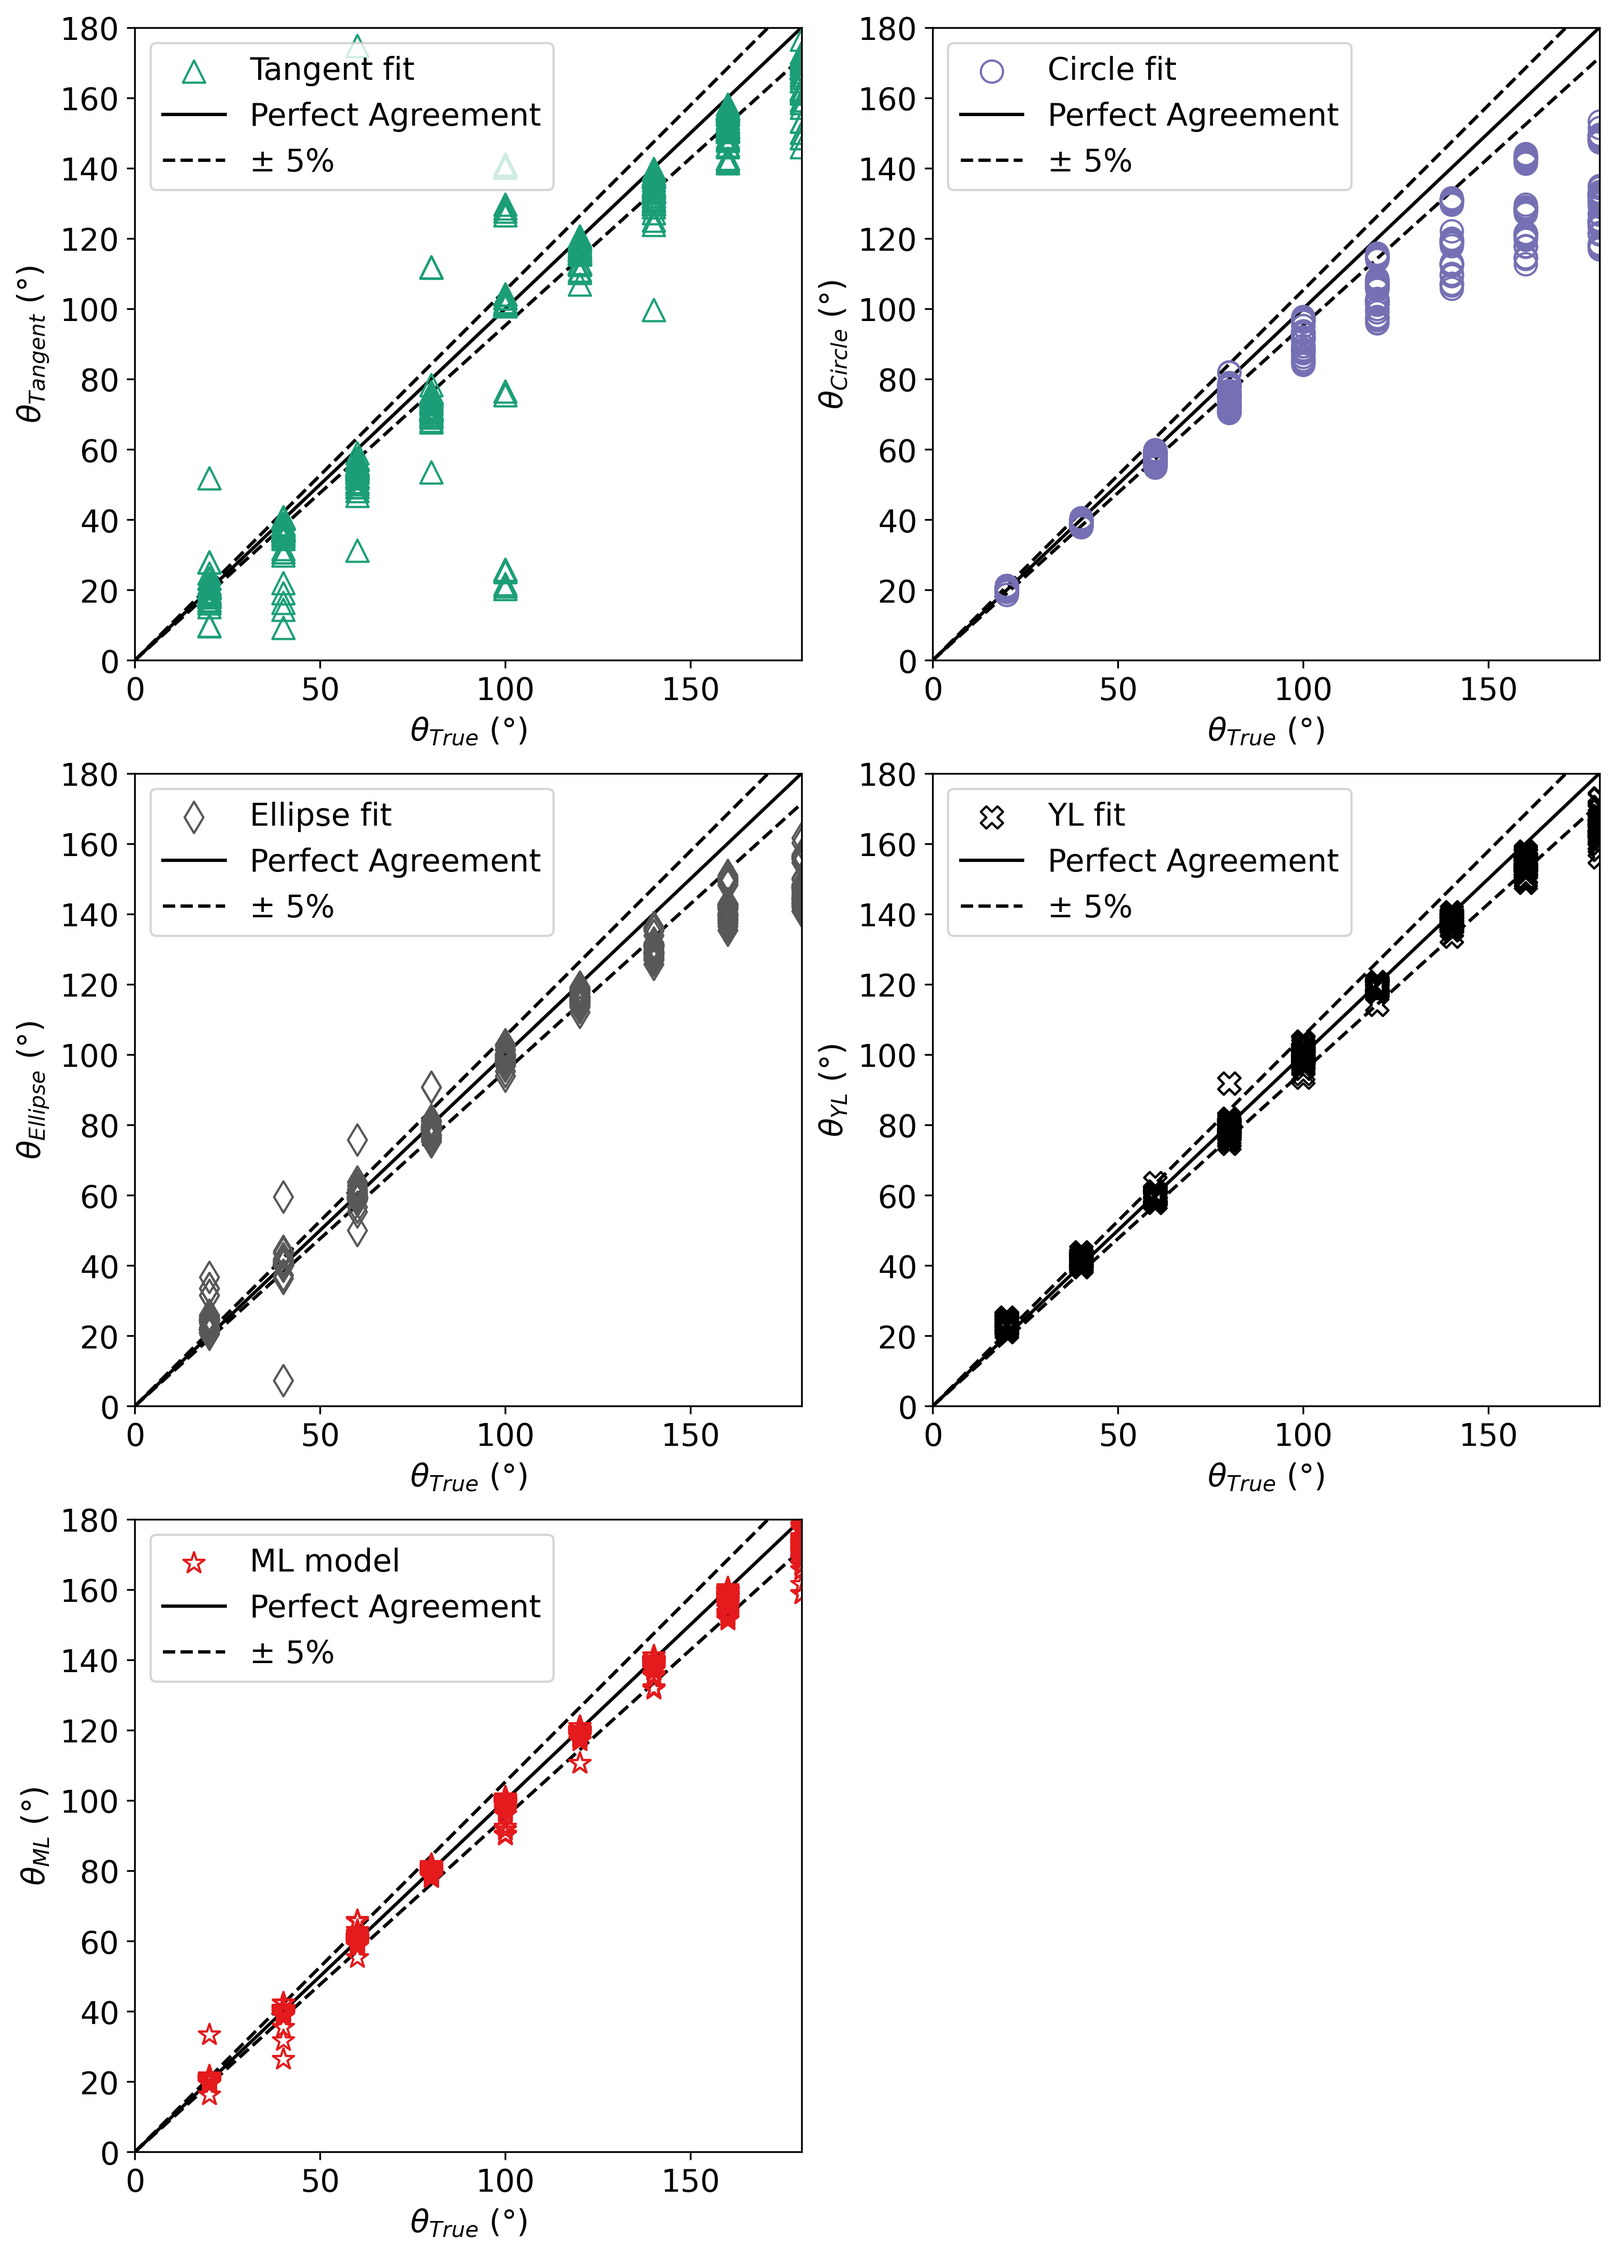
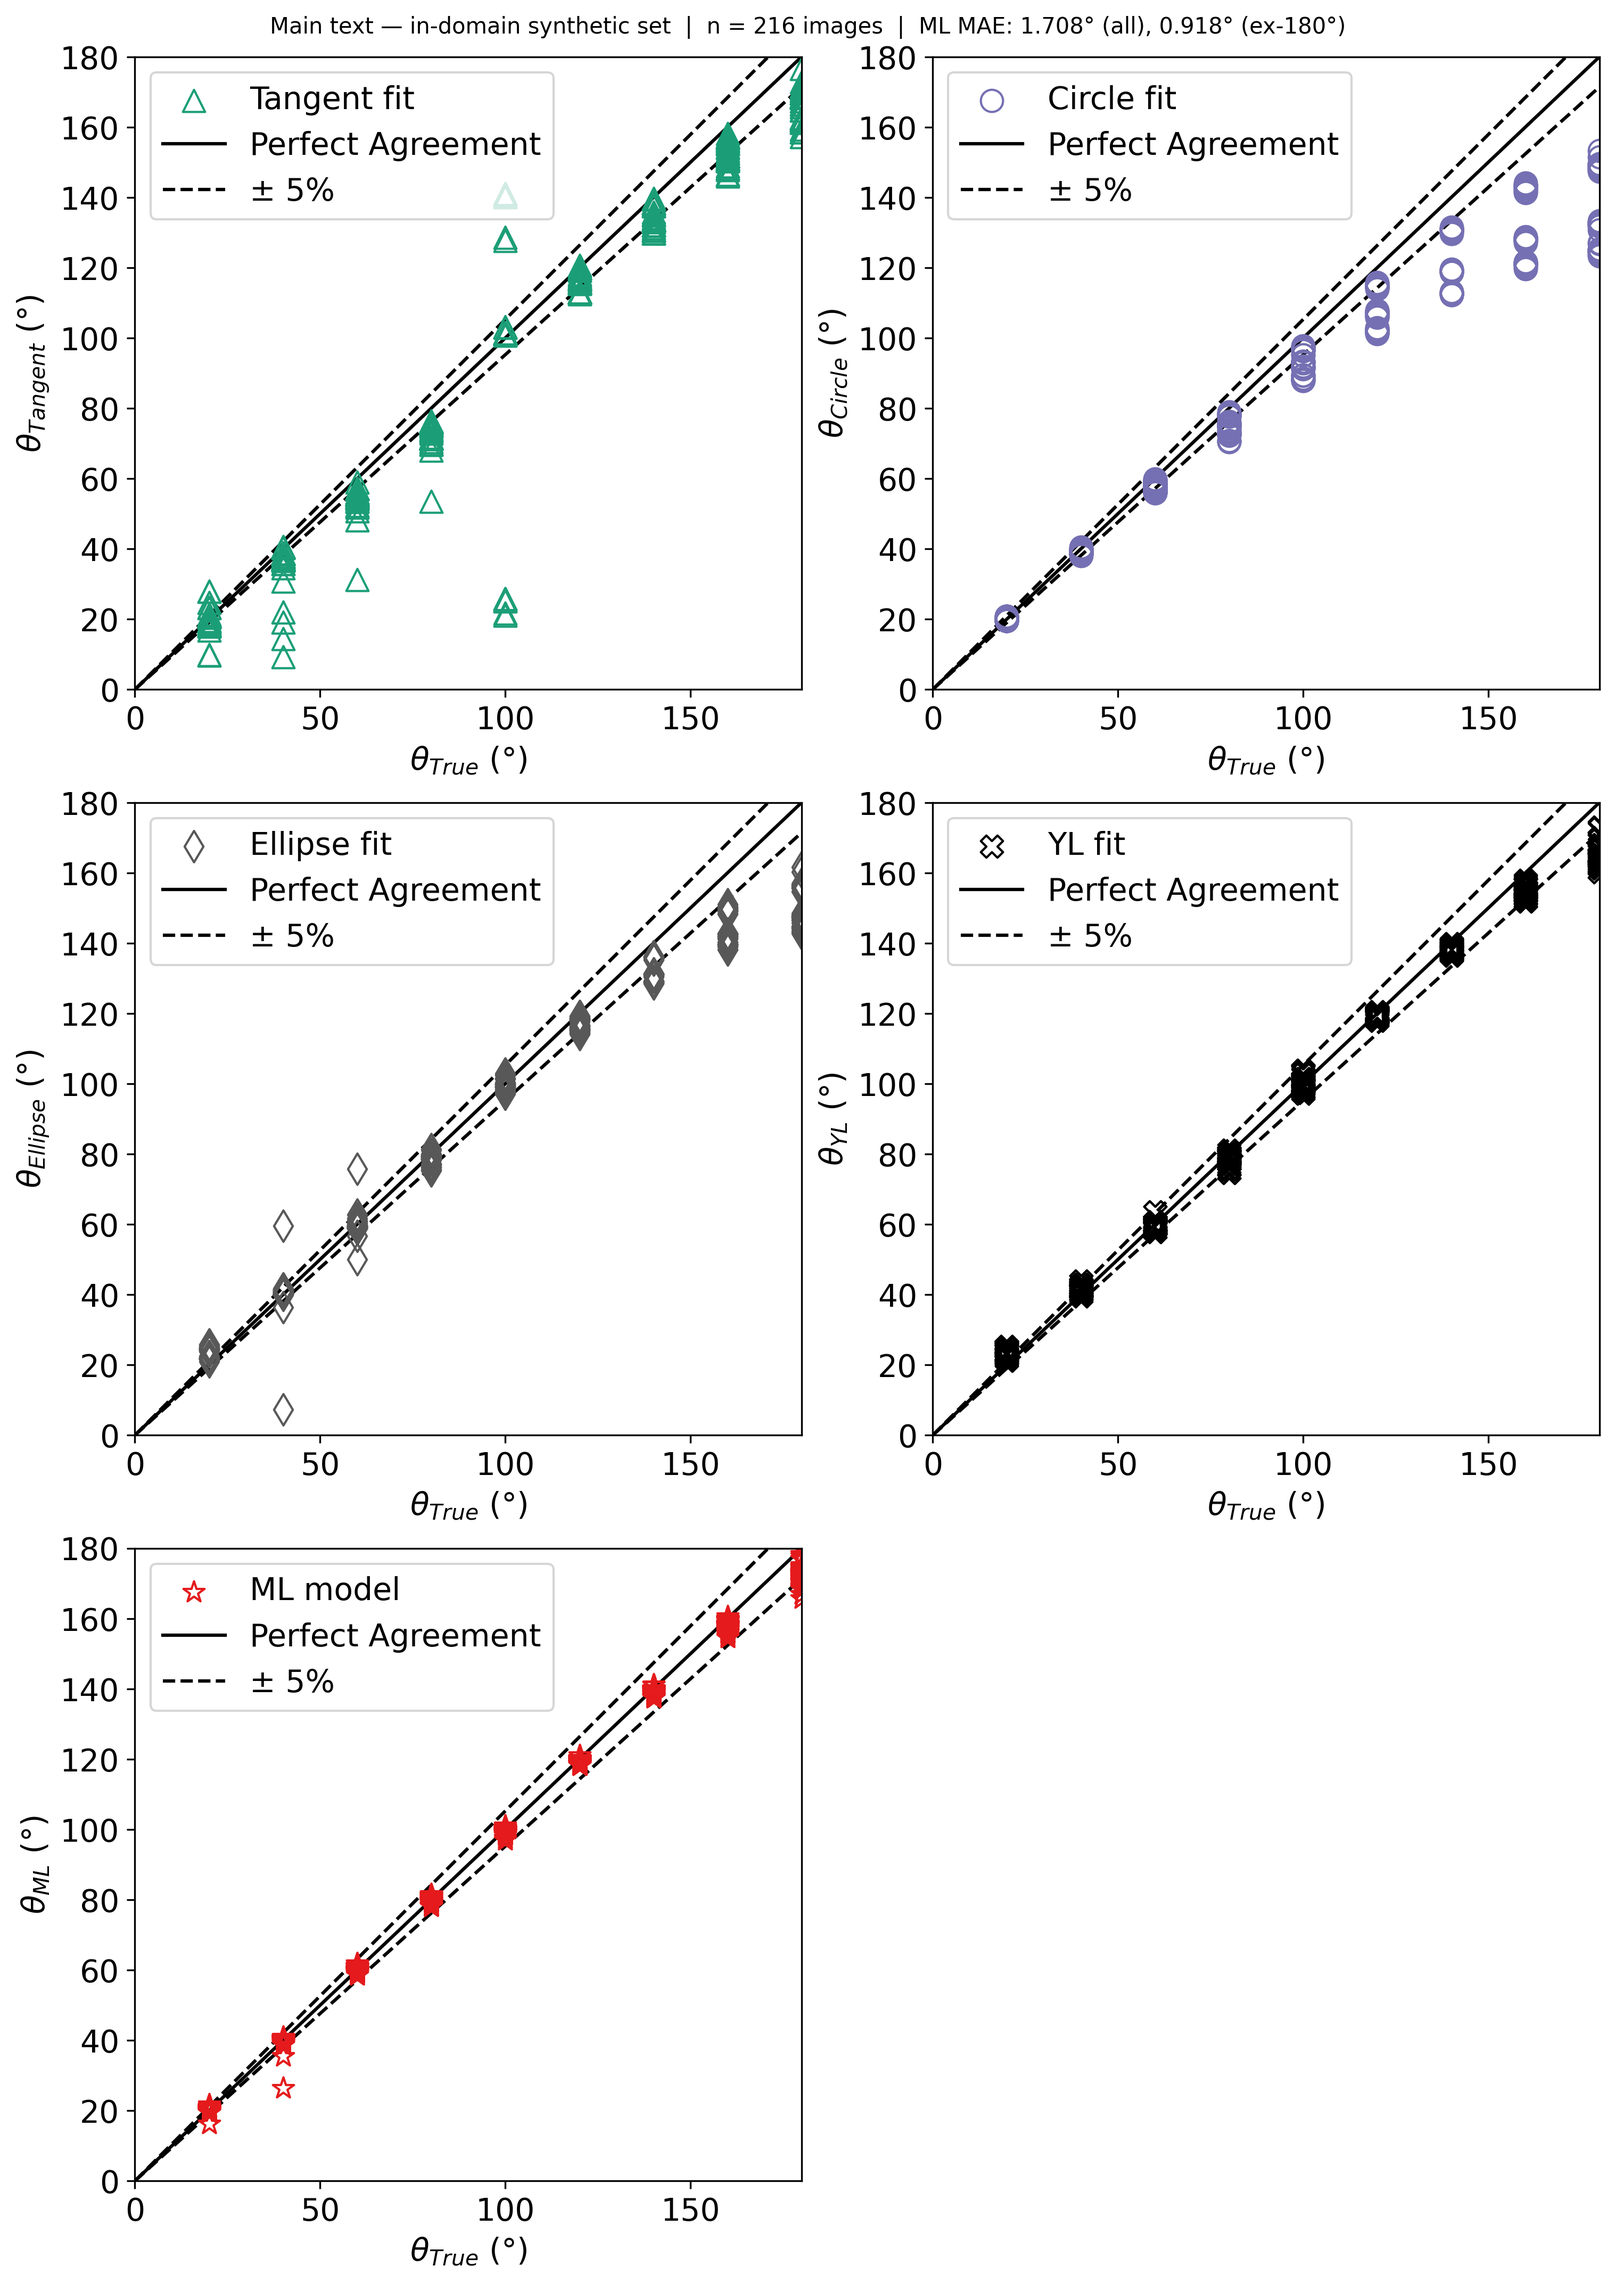
feat(paper_results): report the synthetic set as separate in-domain and out-of-domain figures
The paper's main-text synthetic evaluation is the 216 in-domain images,
with the 108 out-of-domain images (beyond the training grid) reported as
their own supplementary figure rather than marked within the main-text
panel.

plot_synthetic.py now joins synthetic_results.csv against
synthetic_matrix.csv's in_domain label and generates both variants:
synthetic_agreement_5panel[.png|_si_outdomain.png] and
synthetic_bias_and_disagreement[.png|_si_outdomain.png], each suptitled
with its dataset label, n, and ML MAE (all-angle and ex-180 deg) so the
two can't be confused out of context. Also writes
results/synthetic_domain_split_mae.csv (per-method MAE for both subsets).

Verified: 216 in-domain images, ML MAE 0.918 deg ex-180 deg; 108
out-of-domain, 1.746 deg ex-180 deg. No changes to evaluate_synthetic.py
or the underlying evaluation; this is purely how the same 324-image
results are split for reporting.

diff --git a/paper_results/plot/plot_synthetic.py b/paper_results/plot/plot_synthetic.py
@@ -1,9 +1,21 @@
 #!/usr/bin/env python
 """Generate synthetic dataset figures.
 
+The synthetic set is placed off the training grid (PART2 §7.3.2), so each
+image carries an `in_domain` label (results/synthetic_matrix.csv):
+in-domain cells fall between training-grid points, out-of-domain cells lie
+beyond it. Per PART2 §7.3.3/D1′, these are reported as two separate,
+independently labelled figures rather than one panel with marked points --
+the in-domain set (216 images) is the main-text synthetic evaluation, and
+the out-of-domain set (108 images) is a supplementary robustness figure
+documenting how error behaves beyond the training grid.
+
 Produces:
-  - figures/synthetic/synthetic_agreement_5panel.png (3x2 multi-panel F2)
-  - figures/synthetic/synthetic_bias_and_disagreement.png (S5)
+  - figures/synthetic/synthetic_agreement_5panel.png (main text, in-domain)
+  - figures/synthetic/synthetic_bias_and_disagreement.png (main text, in-domain)
+  - figures/synthetic/synthetic_agreement_5panel_si_outdomain.png (SI)
+  - figures/synthetic/synthetic_bias_and_disagreement_si_outdomain.png (SI)
+  - results/synthetic_domain_split_mae.csv (per-method MAE, both variants)
 
 Run from OpenDrop_OP/:
     python paper_results/plot/plot_synthetic.py
@@ -36,14 +48,58 @@ from plot_utils import (
 
 SUBDIR = "synthetic"
 
+METHODS_FOR_MAE = ["ml", "yl", "tangent", "circular", "ellipse", "polynomial"]
+
+DOMAIN_VARIANTS = [
+    # (in_domain value, filename suffix, suptitle label)
+    (True, "", "Main text — in-domain synthetic set"),
+    (False, "_si_outdomain", "Supplementary — out-of-domain (beyond training grid) set"),
+]
+
 
 def load_data():
-    """Load synthetic results CSV."""
+    """Load synthetic results and join the per-image in_domain label."""
     df = pd.read_csv(os.path.join(RESULTS_DIR, "synthetic_results.csv"))
+    matrix = pd.read_csv(os.path.join(RESULTS_DIR, "synthetic_matrix.csv"))
+    in_domain_lookup = matrix.set_index("filename")["in_domain"]
+    df["in_domain"] = df["image_name"].map(in_domain_lookup)
+    if df["in_domain"].isna().any():
+        unmatched = df.loc[df["in_domain"].isna(), "image_name"].tolist()
+        raise ValueError(
+            "image_name(s) not found in synthetic_matrix.csv: {}".format(unmatched)
+        )
     return df
 
 
-def plot_agreement_5panel(df):
+def mae_table(df):
+    """Per-method MAE (all-angle and excluding 180°), pooled over both sides."""
+    gt = df["gt_angle"].values
+    gt_doubled = np.concatenate([gt, gt])
+    rows = []
+    for method in METHODS_FOR_MAE:
+        left = df["{}_left_angle".format(method)].values
+        right = df["{}_right_angle".format(method)].values
+        err_all = np.concatenate([np.abs(left - gt), np.abs(right - gt)])
+        err_ex180 = err_all[gt_doubled != 180]
+        rows.append(
+            {
+                "method": method,
+                "mae_all_angle": np.nanmean(err_all),
+                "mae_excluding_180": np.nanmean(err_ex180),
+                "n_sides": len(err_all),
+            }
+        )
+    return pd.DataFrame(rows)
+
+
+def domain_suptitle(label, df, mt):
+    ml_row = mt.loc[mt.method == "ml"].iloc[0]
+    return "{}  |  n = {} images  |  ML MAE: {:.3f}° (all), {:.3f}° (ex-180°)".format(
+        label, len(df), ml_row["mae_all_angle"], ml_row["mae_excluding_180"]
+    )
+
+
+def plot_agreement_5panel(df, suptitle, filename_suffix):
     """3x2 multi-panel agreement scatter (5 methods, 6th panel removed).
 
     Matches legacy plot_synthetic_results.py In[13] layout:
@@ -83,10 +139,11 @@ def plot_agreement_5panel(df):
     for idx in range(len(FIGURE_METHODS), len(axes)):
         fig.delaxes(axes[idx])
 
-    save_figure(fig, SUBDIR, "synthetic_agreement_5panel.png")
+    fig.suptitle(suptitle, fontsize=10, y=1.01)
+    save_figure(fig, SUBDIR, "synthetic_agreement_5panel{}.png".format(filename_suffix))
 
 
-def plot_bias_and_disagreement(df):
+def plot_bias_and_disagreement(df, suptitle, filename_suffix):
     """Two-panel figure: bias vs true angle (YL + ML) and ML-YL disagreement.
 
     Reproduces legacy pred_vs_true_plots_experimental.py lines 1031-1053
@@ -208,7 +265,8 @@ def plot_bias_and_disagreement(df):
             fontweight="bold",
         )
 
-    save_figure(fig, SUBDIR, "synthetic_bias_and_disagreement.png")
+    fig.suptitle(suptitle, fontsize=10, y=1.04)
+    save_figure(fig, SUBDIR, "synthetic_bias_and_disagreement{}.png".format(filename_suffix))
 
 
 # -----------------------------------------------------------------------
@@ -226,8 +284,25 @@ def main():
     df = load_data()
     print("Loaded {} images".format(len(df)))
 
-    plot_agreement_5panel(df)
-    plot_bias_and_disagreement(df)
+    summary_rows = []
+    for in_domain, suffix, label in DOMAIN_VARIANTS:
+        subset = df[df["in_domain"] == in_domain].copy()
+        mt = mae_table(subset)
+        suptitle = domain_suptitle(label, subset, mt)
+        print()
+        print(suptitle)
+
+        mt.insert(0, "variant", "in_domain" if in_domain else "out_of_domain")
+        mt.insert(1, "n_images", len(subset))
+        summary_rows.append(mt)
+
+        plot_agreement_5panel(subset, suptitle, suffix)
+        plot_bias_and_disagreement(subset, suptitle, suffix)
+
+    summary_path = os.path.join(RESULTS_DIR, "synthetic_domain_split_mae.csv")
+    pd.concat(summary_rows, ignore_index=True).to_csv(summary_path, index=False)
+    print()
+    print("Wrote per-method MAE summary to {}".format(summary_path))
 
     print()
     print("All synthetic figures generated.")

diff --git a/paper_results/README.md b/paper_results/README.md
@@ -71,6 +71,8 @@ figure-regeneration pipeline above.
 - `synthetic_results.csv` — 324 rows, all fitting method predictions + ground truth
 - `sensitivity_results.csv` — 120 rows, v03 and v05.05 predictions on sensitivity dataset (GT 110-180°)
 - `synthetic_matrix.csv` — the synthetic set's design: per-cell (Bond, scaler, roughness), `in_domain`/`ood_axis` labels, and the seed/filename each cell rendered to
+- `synthetic_domain_split_mae.csv` — per-method MAE (all-angle and excluding 180°) computed separately for the in-domain and out-of-domain subsets (see figures below)
+- `training_domain_bounds.csv` — the training grid's own scaler/Bond envelope (36 rendered cells), used by the training-domain-coverage figure
 
 ### Figures (`figures/`)
 
@@ -80,8 +82,8 @@ figure-regeneration pipeline above.
 - `experimental_speed.png` — 2x2 timing breakdown (preprocessing, total, fit time, fit vs contour length)
 
 **Synthetic** (`figures/synthetic/`):
-- `synthetic_agreement_5panel.png` — 3x2 grid: per-method agreement scatter (tangent, circle, ellipse, YL, ML)
-- `synthetic_bias_and_disagreement.png` — Bias vs true angle and ML-YL disagreement
+- `synthetic_agreement_5panel.png`, `synthetic_bias_and_disagreement.png` — main-text figures, in-domain cells only (n=216): 3x2 per-method agreement scatter, and bias vs true angle / ML-YL disagreement
+- `synthetic_agreement_5panel_si_outdomain.png`, `synthetic_bias_and_disagreement_si_outdomain.png` — supplementary figures, out-of-domain cells only (n=108, beyond the training grid) — same layout, reported separately rather than marked on the main-text panel (PART2 §7.3.3)
 
 **Comparison** (`figures/comparison/`):
 - `sensitivity_agreement.png` — 3-panel: v03 and v05.05 agreement + delta on sensitivity dataset
